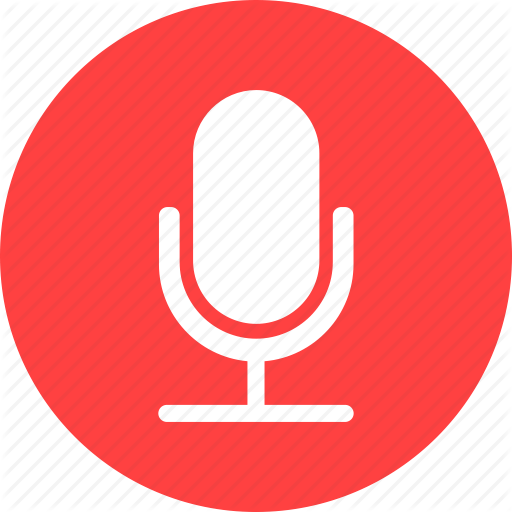
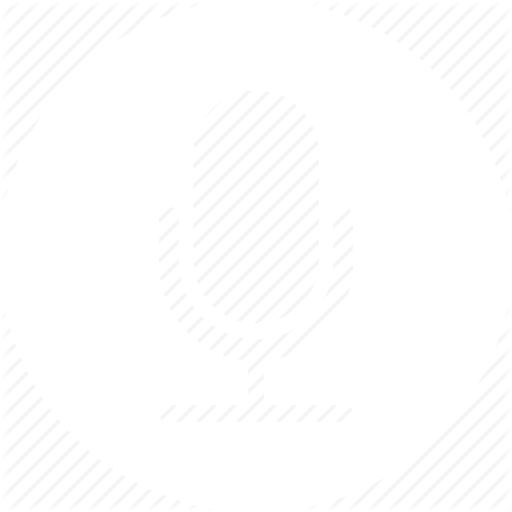
updated: view

diff --git a/src/main/java/com/style.css b/src/main/java/com/style.css
@@ -1,16 +1,15 @@
 .root {
-    -fx-background-color:rgba(10,10,150,1);
+    -fx-background-color: linear-gradient(to top, #2B1E54, #EB5860);
 }
-
-#listView {
-    -fx-background-color:rgba(56,176,209);
+#lowerPane {
+-fx-background-color: transparent;
 }
-
-#list-view .list-cell:even {
--fx-background-color: blue;
--fx-text-fill: black;
+#rootPane {
+-fx-background-color: transparent;
 }
-#list-view .list-cell:odd {
--fx-background-color: blue;
--fx-text-fill: black;
+#pushLabel {
+-fx-text-fill: white;
+}
+#subtitleLabel {
+-fx-text-fill: white;
 }

diff --git a/src/main/java/com/view/ViewController.java b/src/main/java/com/view/ViewController.java
@@ -3,7 +3,6 @@ package com.view;
 import javafx.event.ActionEvent;
 import javafx.fxml.Initializable;
 import javafx.scene.control.Label;
-import javafx.scene.control.ListView;
 import javafx.scene.image.Image;
 import javafx.scene.image.ImageView;
 import javafx.scene.input.MouseEvent;
@@ -16,7 +15,7 @@ import java.net.URL;
 import java.util.ResourceBundle;
 
 public class ViewController implements Initializable {
-    public ListView listBox;
+    public Label subtitles;
     public ImageView voiceImage;
     public MediaView videoBox;
     public Label voiceLabel;
@@ -25,7 +24,7 @@ public class ViewController implements Initializable {
 
     @Override
     public void initialize(URL location, ResourceBundle resources) {
-        Image i = new Image(new File("assets/micb.png").toURI().toString());
+        Image i = new Image(new File("assets/mic.png").toURI().toString());
         voiceImage.setImage(i);
         voiceImage.setStyle("-fx-background-color: BLACK");
     }
@@ -64,8 +63,7 @@ public class ViewController implements Initializable {
     }
 
     public final void addCell(String message) {
-        listBox.getItems().add(0, message);
-        listBox.setStyle("-fx-control-inner-background: rgba(56,176,209);");
+        subtitles.setText(message);
     }
 
     public final void playVideo(File file) {

diff --git a/src/main/java/com/Runner.java b/src/main/java/com/Runner.java
@@ -17,10 +17,7 @@ public class Runner extends Application {
         Scene scene = new Scene(root, 1200, 900);
         scene.getStylesheets().add(getClass().getResource("style.css").toExternalForm());
 //        primaryStage.initStyle(StageStyle.TRANSPARENT);
-        primaryStage.setOpacity(0.7);
-
-
-//        scene.setFill(Color.CRIMSON);
+//        primaryStage.setOpacity(0.7);
         primaryStage.setScene(scene);
         primaryStage.show();
         primaryStage.setOnCloseRequest(new EventHandler<WindowEvent>() {
